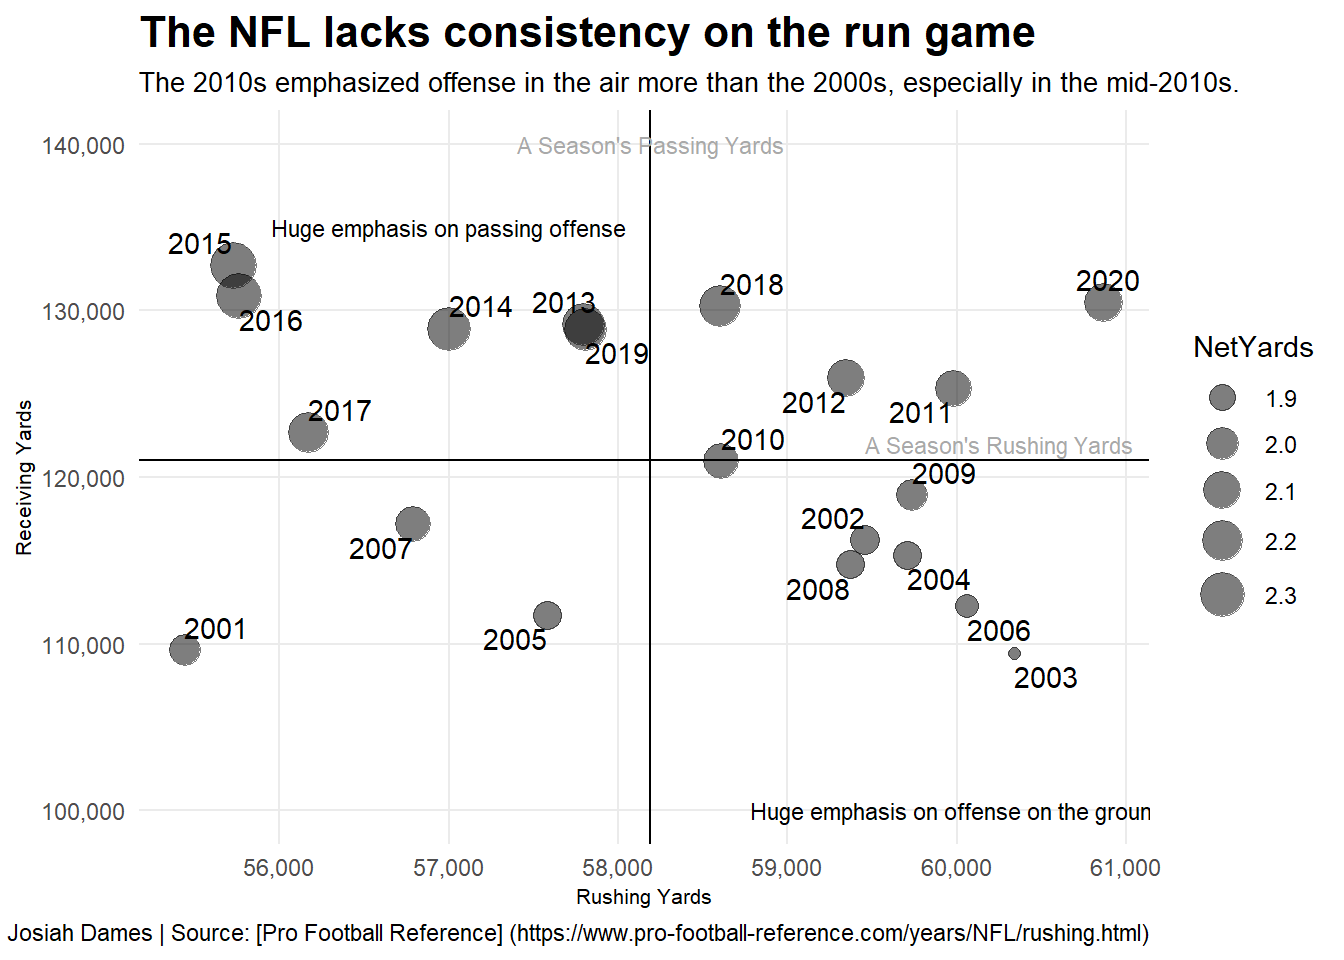
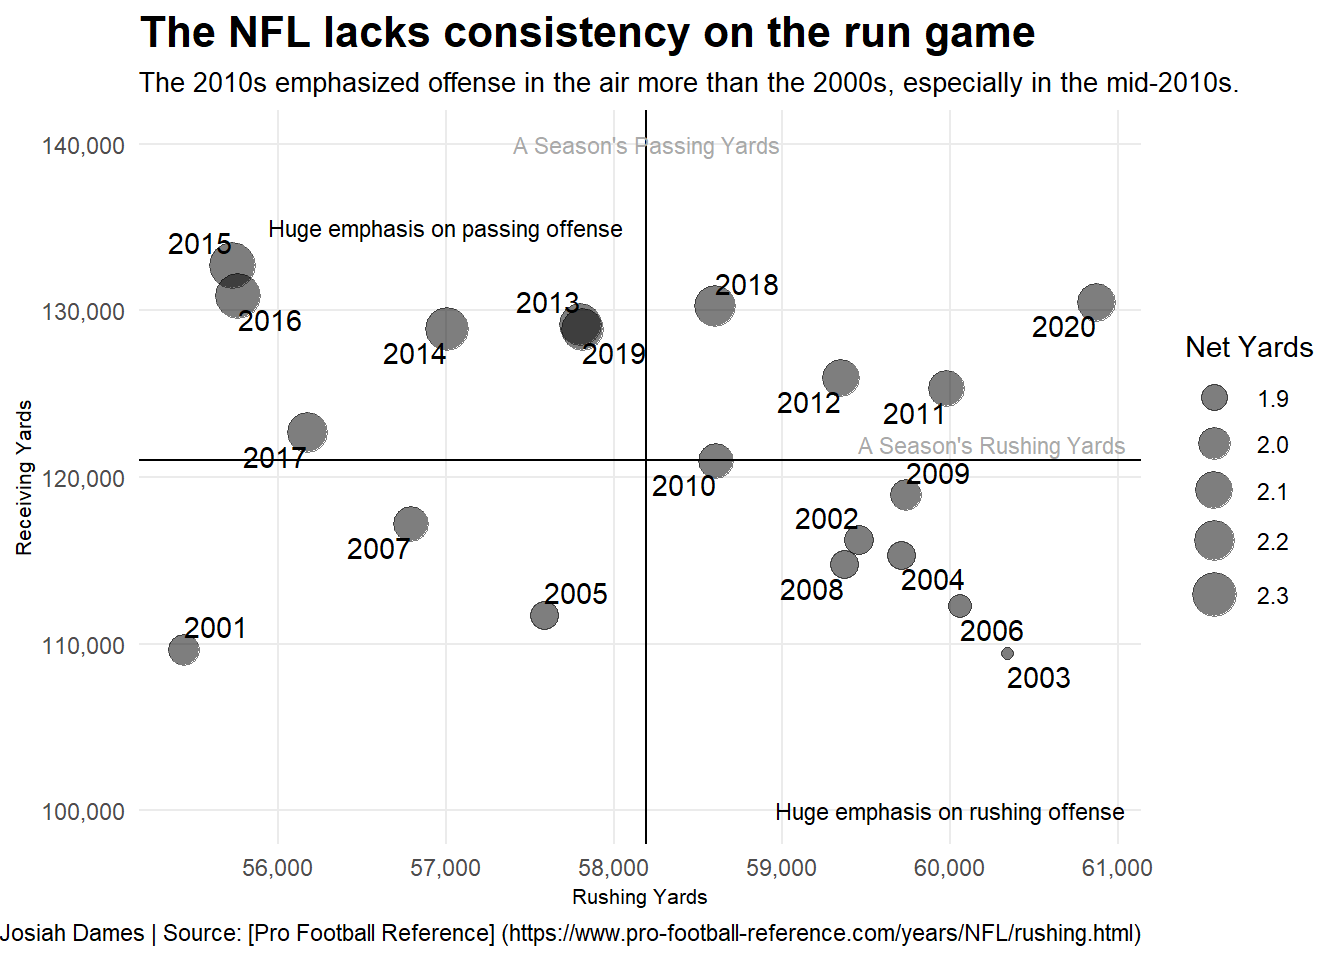
Initial Comment

diff --git a/posts/nfl-passing-or-rushing-league/index.html b/posts/nfl-passing-or-rushing-league/index.html
@@ -240,7 +240,7 @@ dbl (15): Rank, Year, Tms, RushingAttempts, RushingYards, RushingTD, Rushing...
 <span id="cb5-9"><a href="#cb5-9" aria-hidden="true" tabindex="-1"></a>    <span class="at">data=</span>nfl, </span>
 <span id="cb5-10"><a href="#cb5-10" aria-hidden="true" tabindex="-1"></a>    <span class="fu">aes</span>(<span class="at">x=</span>RushingYards, <span class="at">y=</span>ReceivingYards, <span class="at">size=</span>NetYards),</span>
 <span id="cb5-11"><a href="#cb5-11" aria-hidden="true" tabindex="-1"></a>    <span class="at">alpha =</span> <span class="fl">0.3</span>) <span class="sc">+</span></span>
-<span id="cb5-12"><a href="#cb5-12" aria-hidden="true" tabindex="-1"></a>  <span class="fu">scale_size</span>(<span class="at">range =</span> <span class="fu">c</span>(<span class="dv">2</span>,<span class="dv">8</span>), <span class="at">name =</span> <span class="st">"NetYards"</span>) <span class="sc">+</span></span>
+<span id="cb5-12"><a href="#cb5-12" aria-hidden="true" tabindex="-1"></a>  <span class="fu">scale_size</span>(<span class="at">range =</span> <span class="fu">c</span>(<span class="dv">2</span>,<span class="dv">8</span>), <span class="at">name =</span> <span class="st">"Net Yards"</span>) <span class="sc">+</span></span>
 <span id="cb5-13"><a href="#cb5-13" aria-hidden="true" tabindex="-1"></a><span class="fu">geom_point</span>(</span>
 <span id="cb5-14"><a href="#cb5-14" aria-hidden="true" tabindex="-1"></a>    <span class="at">data =</span> nfl, </span>
 <span id="cb5-15"><a href="#cb5-15" aria-hidden="true" tabindex="-1"></a>    <span class="fu">aes</span>(</span>
@@ -280,7 +280,7 @@ dbl (15): Rank, Year, Tms, RushingAttempts, RushingYards, RushingTD, Rushing...
 <span id="cb5-49"><a href="#cb5-49" aria-hidden="true" tabindex="-1"></a>  ) <span class="sc">+</span></span>
 <span id="cb5-50"><a href="#cb5-50" aria-hidden="true" tabindex="-1"></a>  <span class="fu">geom_text</span>(</span>
 <span id="cb5-51"><a href="#cb5-51" aria-hidden="true" tabindex="-1"></a>    <span class="fu">aes</span>(<span class="at">x =</span> <span class="dv">60000</span>, <span class="at">y =</span> <span class="dv">100000</span>),</span>
-<span id="cb5-52"><a href="#cb5-52" aria-hidden="true" tabindex="-1"></a>    <span class="at">label =</span> <span class="st">"Huge emphasis on offense on the ground"</span>,</span>
+<span id="cb5-52"><a href="#cb5-52" aria-hidden="true" tabindex="-1"></a>    <span class="at">label =</span> <span class="st">"Huge emphasis on rushing offense"</span>,</span>
 <span id="cb5-53"><a href="#cb5-53" aria-hidden="true" tabindex="-1"></a>    <span class="at">size =</span> <span class="dv">3</span></span>
 <span id="cb5-54"><a href="#cb5-54" aria-hidden="true" tabindex="-1"></a>  ) <span class="sc">+</span></span>
 <span id="cb5-55"><a href="#cb5-55" aria-hidden="true" tabindex="-1"></a>  <span class="fu">scale_x_continuous</span>(<span class="at">labels =</span> scales<span class="sc">::</span>comma) <span class="sc">+</span></span>

diff --git a/index.html b/index.html
@@ -205,7 +205,7 @@ window.Quarto = {
 
 <div class="quarto-listing quarto-listing-container-default" id="listing-listing">
 <div class="list quarto-listing-default">
-<div class="quarto-post image-right" data-index="0" data-categories="NFL" data-listing-date-sort="1731823200000" data-listing-file-modified-sort="1731610302220" data-listing-date-modified-sort="NaN" data-listing-reading-time-sort="8" data-listing-word-count-sort="1427">
+<div class="quarto-post image-right" data-index="0" data-categories="NFL" data-listing-date-sort="1731823200000" data-listing-file-modified-sort="1731618052896" data-listing-date-modified-sort="NaN" data-listing-reading-time-sort="8" data-listing-word-count-sort="1426">
 <div class="thumbnail">
 <p><a href="./posts/nfl-passing-or-rushing-league/index.html" class="no-external"></a></p><a href="./posts/nfl-passing-or-rushing-league/index.html" class="no-external">
 <p class="card-img-top"><img src="posts\nfl-passing-or-rushing-league\index_files\figure-html\unnamed-chunk-1-1.png"  class="thumbnail-image card-img"/></p>
